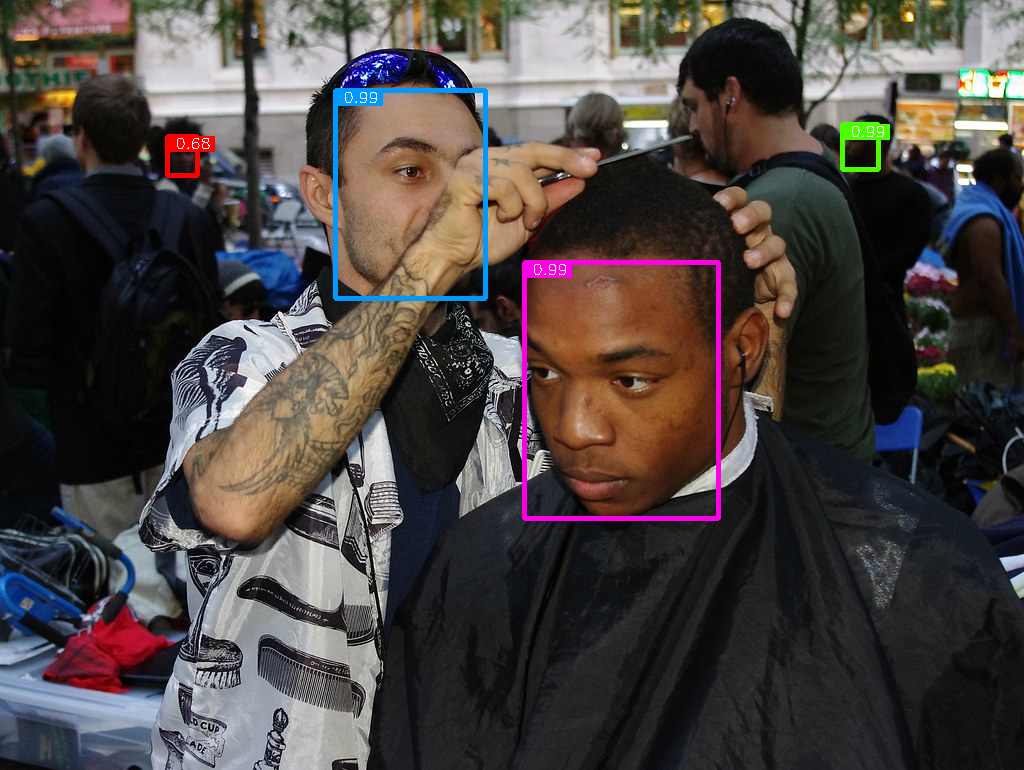
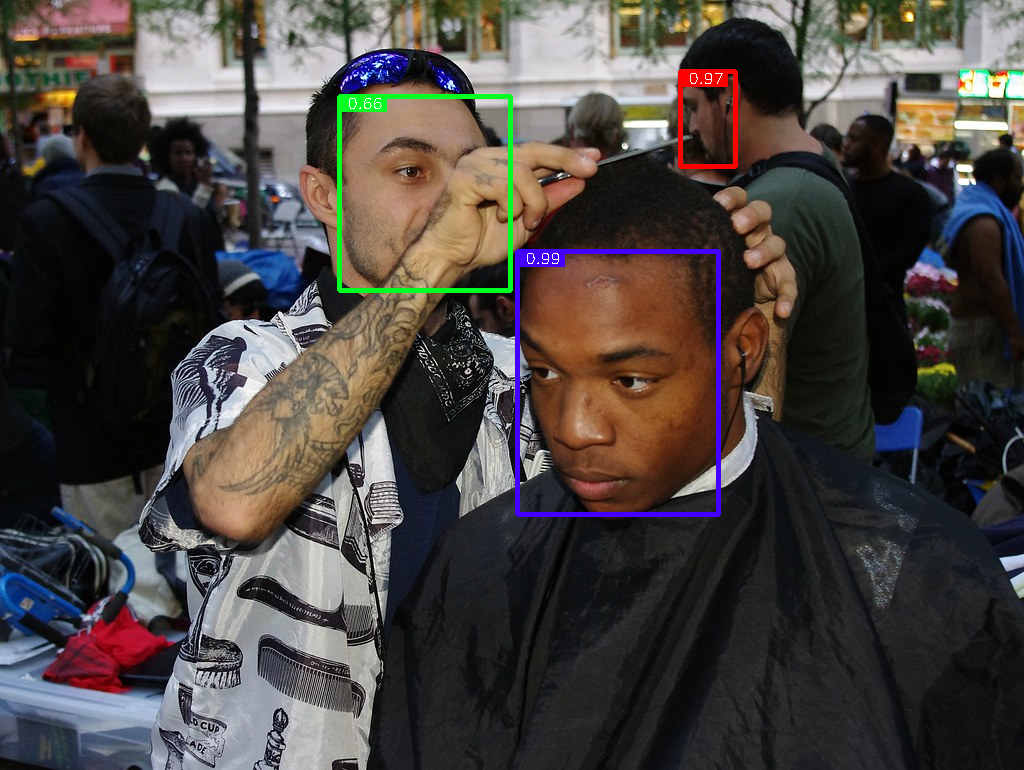
Apply letterbox convert

diff --git a/face_detection/face-detection-adas/face-detection-adas.py b/face_detection/face-detection-adas/face-detection-adas.py
@@ -12,6 +12,7 @@ from utils import get_base_parser, update_parser, get_savepath  # noqa
 from model_utils import check_and_download_models  # noqa
 from nms_utils import nms_boxes  # noqa
 from detector_utils import load_image, plot_results  # noqa
+from detector_utils import letterbox_convert, reverse_letterbox  # noqa: E402
 from webcamera_utils import get_capture, get_writer  # noqa
 # logger
 from logging import getLogger  # noqa
@@ -87,7 +88,8 @@ def convert_to_detector_object(bboxes, scores, im_w, im_h):
 # ======================
 
 def preprocess(img):
-    img = cv2.resize(img, (IMAGE_WIDTH, IMAGE_HEIGHT), interpolation=cv2.INTER_LINEAR)
+    #img = cv2.resize(img, (IMAGE_WIDTH, IMAGE_HEIGHT), interpolation=cv2.INTER_LINEAR)
+    img = letterbox_convert(img, (IMAGE_HEIGHT, IMAGE_WIDTH))
 
     img = img.transpose(2, 0, 1)  # HWC -> CHW
     img = np.expand_dims(img, axis=0)
@@ -140,13 +142,13 @@ def predict(model_info, img):
     net = model_info['net']
     prior_box = model_info['prior_box']
 
-    img = preprocess(img)
+    preprocess_img = preprocess(img)
 
     # feedforward
     if not args.onnx:
-        output = net.predict([img])
+        output = net.predict([preprocess_img])
     else:
-        output = net.run(None, {'data': img})
+        output = net.run(None, {'data': preprocess_img})
     mbox_loc, mbox_conf = output
 
     bboxes = decode_bbox(mbox_loc[0], prior_box[0], prior_box[1])
@@ -164,7 +166,10 @@ def predict(model_info, img):
     bboxes = bboxes[i].astype(int)
     scores = scores[i]
 
-    return (bboxes, scores)
+    detect_object = convert_to_detector_object(bboxes, scores, img.shape[1], img.shape[0])
+    detect_object = reverse_letterbox(detect_object, img, (IMAGE_HEIGHT, IMAGE_WIDTH))
+
+    return detect_object
 
 
 def recognize_from_image(model_info):
@@ -196,10 +201,8 @@ def recognize_from_image(model_info):
         else:
             pred = predict(model_info, img)
 
-        (bboxes, scores) = pred
-
         # plot result
-        detect_object = convert_to_detector_object(bboxes, scores, img.shape[1], img.shape[0])
+        detect_object = pred
         res_img = plot_results(detect_object, img)
 
         # plot result
@@ -234,10 +237,9 @@ def recognize_from_video(model_info):
         # inference
         img = frame
         pred = predict(model_info, img)
-        (bboxes, scores) = pred
 
         # plot result
-        detect_object = convert_to_detector_object(bboxes, scores, img.shape[1], img.shape[0])
+        detect_object = pred
         res_img = plot_results(detect_object, img)
 
         # show

diff --git a/face_recognition/age-gender-recognition-retail/age-gender-recognition-retail.py b/face_recognition/age-gender-recognition-retail/age-gender-recognition-retail.py
@@ -109,25 +109,18 @@ def setup_detector(net):
 
         def _detector(img):
             im_h, im_w, _ = img.shape
-            pred = mod.predict(model_info, img)
-            (bboxes, scores) = pred
+            detections = mod.predict(model_info, img)
 
             enlarge = 1.2
             detect_object = []
-            for i in range(len(bboxes)):
-                (x1, y1, x2, y2) = bboxes[i]
-                w, h = (x2 - x1), (y2 - y1)
-                cx, cy = x1 + w / 2, y1 + h / 2
-                w = h = max(w, h) * enlarge
-                score = scores[i]
-
+            for d in detections:
                 r = ailia.DetectorObject(
-                    category=0,
-                    prob=score,
-                    x=(cx - w / 2) / im_w,
-                    y=(cy - h / 2) / im_h,
-                    w=w / im_w,
-                    h=h / im_h,
+                    category=d.category,
+                    prob=d.prob,
+                    x=d.x - d.w * (enlarge - 1.0) / 2,
+                    y=d.y - d.h * (enlarge - 1.0) / 2,
+                    w=d.w * enlarge,
+                    h=d.h * enlarge,
                 )
                 detect_object.append(r)
 
